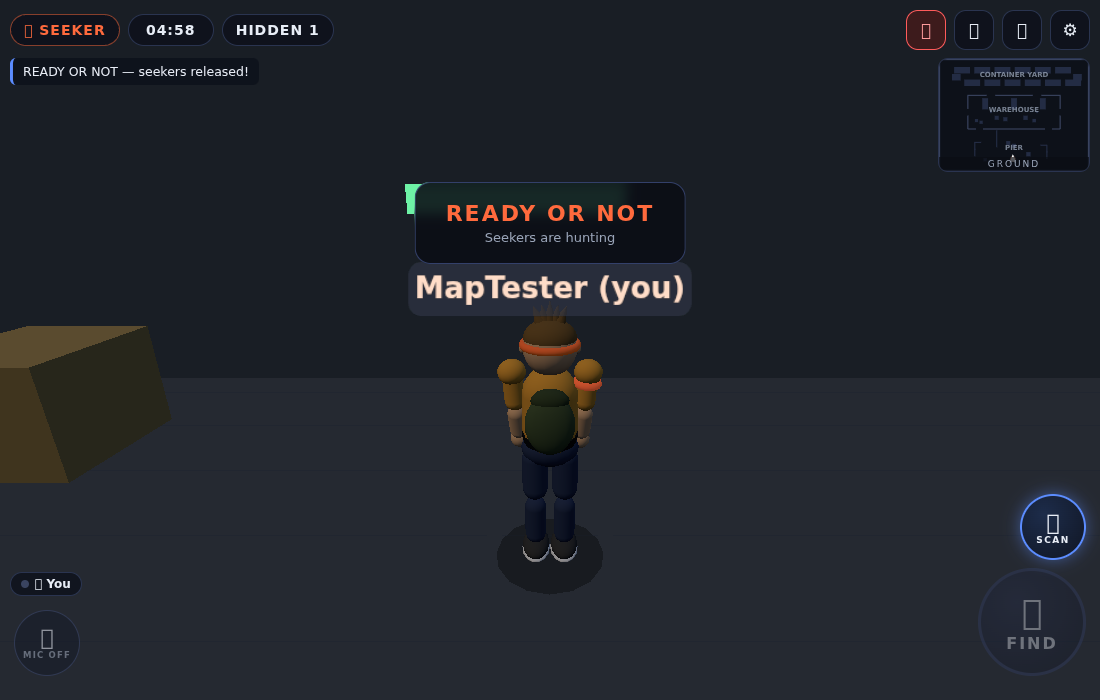
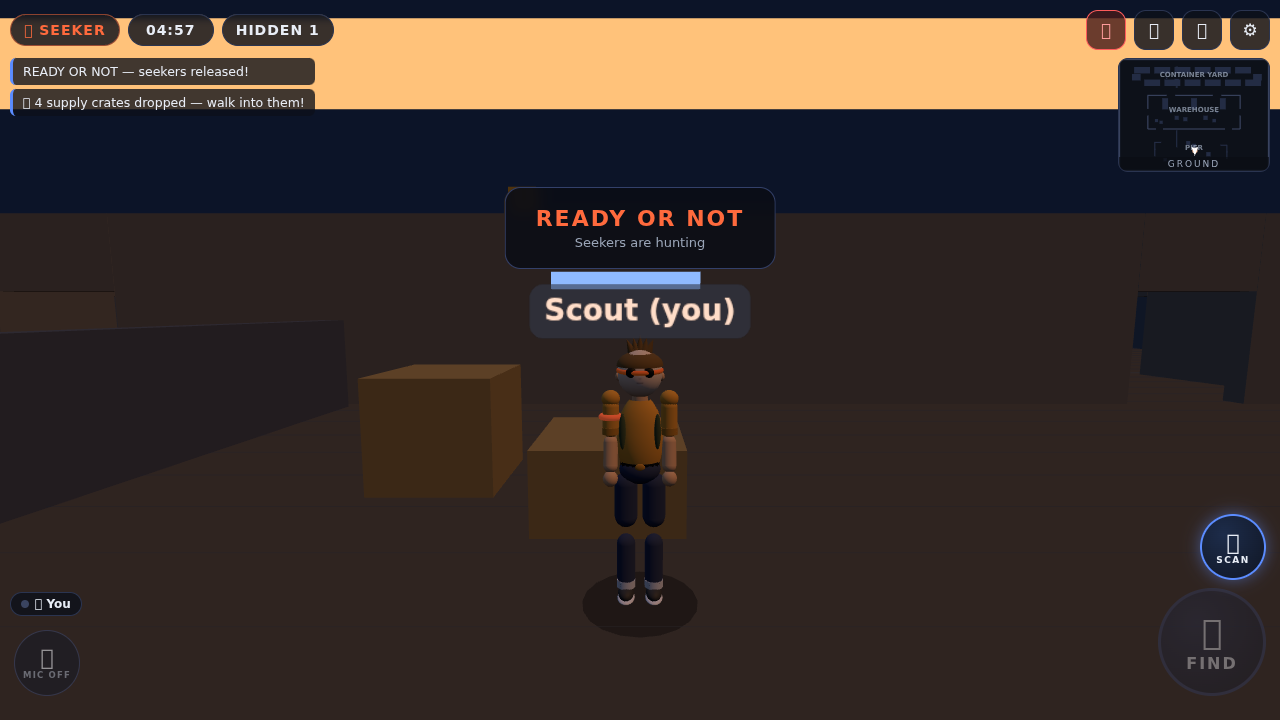
docs: README (crates, map identities, faces, changelog) + map screenshots
Adds tools/map-screenshots.mjs (one in-world shot per map) and fresh
screenshots for the three map identities and the new characters.

diff --git a/hide-and-seek/README.md b/hide-and-seek/README.md
@@ -9,9 +9,9 @@ checks), and a proper round loop (hide → hunt → catch → results).
 **100% browser-based** — nothing to install for players. Phones and desktops
 play together.
 
-| Hider hiding | Seeker FIND! | Results | Characters | The Old Docks |
+| Hider hiding | Seeker FIND! | Characters | The Old Docks | Mall of Shadows |
 |---|---|---|---|---|
-| ![](docs/screenshots/hider-prep.png) | ![](docs/screenshots/seeker-find.png) | ![](docs/screenshots/results.png) | ![](docs/screenshots/avatars-lineup.png) | ![](docs/screenshots/map-docks.png) |
+| ![](docs/screenshots/hider-prep.png) | ![](docs/screenshots/seeker-find.png) | ![](docs/screenshots/avatars-lineup.png) | ![](docs/screenshots/map-docks.png) | ![](docs/screenshots/map-mall.png) |
 
 ---
 
@@ -94,31 +94,54 @@ the lobby). All three are pure data in [`shared/map.js`](shared/map.js)
 *every* map).
 
 - **Blackwood Research Facility** (`facility`) — the original three-level
-  indoor maze: reception atrium, laboratory, server room, security, offices +
-  meeting room, storage, warehouse, **two secret vents**, a **basement**
-  (Archives with a secret ladder back up) and a **rooftop** (exterior service
-  stairs, AC plant, water tanks, maintenance shed). **210 hiding nooks.**
-- **The Old Docks** (`docks`) — a single-floor industrial yard: a **container
-  yard** (tall shipping containers + diagonal alleys), a central **warehouse**
-  (four open bays, rack aisles, forklift, barrels), and a **pier** (sheds,
-  crate stacks, barrel clusters). Rust/teal palette, open and windy.
-  **81 hiding nooks.**
-- **Mall of Shadows** (`mall`) — a single-floor abandoned arcade: perimeter
-  **shops** (display racks), a central **atrium** (fountain, planters), a
-  **food court** (table clusters), a neon **arcade row**, and a raised **DJ
-  stage** (tall booth, reached by walkable steps). **64 hiding nooks.**
+  indoor maze, **cold blue-white lighting**: reception atrium, laboratory,
+  server room, security, offices + meeting room, storage, warehouse,
+  **two secret vents**, a **basement** (Archives with a secret ladder back
+  up) and a **rooftop** (exterior service stairs, AC plant, water tanks,
+  maintenance shed). **209 hiding nooks.**
+- **The Old Docks** (`docks`) — a single-floor industrial yard under **warm
+  amber sodium lamps on a night sky**: a **container yard** (four-colour
+  containers + a yellow gantry-crane landmark), a central **warehouse**
+  (four open bays, rack aisles, forklift) and a **pier** (sheds, crates,
+  barrels). **89 hiding nooks.**
+- **Mall of Shadows** (`mall`) — a single-floor abandoned arcade bathed in
+  **neon magenta + cyan**: perimeter **shops** with lit shopfronts, a central
+  **atrium** (fountain, planters), a **food court**, a multicolour **arcade
+  row**, and a raised **DJ stage**. **64 hiding nooks.**
 
+Each map carries its own **scene identity** (sky, fog, key/fill lighting) so
+the three maps feel like three different places, not one room repainted.
 Every map: glowing **signage** + minimap labels (decorative — never block
 movement or line of sight); tall props (≥1.3 m) block line of sight, low
 props block movement only; **no hide spot lands within 7 m of a seeker spawn**
-(fairness rule, config `hideSpotMinSeekerDistance`).
+(fairness rule, config `hideSpotMinSeekerDistance`), and `verify:map` now
+also proves **every walkable cell has floor under it** (this caught a real
+hole in the facility's north atrium where players could fall out of the world
+and practice bots "hid" standing in mid-air).
+
+### 📦 Supply crates (server-authoritative loot)
+
+Every hunt drops **4 crates** at random validated spots:
+- **⚡ Boost crate** (gold) — walk into it: +40 % move speed for 10 s. The
+  anti-cheat speed cap is raised *server-side* for the same window, so it's a
+  genuine advantage, not a client trick.
+- **🕶 Cloak crate** (cyan) — **hidden hiders only**: for 10 s the hider is
+  *invisible to enemies and uncatchable* (the server omits them from enemy
+  snapshots and rejects catches with `CLOAKED`). Teammates can still see them.
+
+Crates appear in the world as glowing spinning crates; pickup is a
+server-checked radius check; effects show as a HUD countdown chip plus a
+glow on the avatar (gold boost / cyan cloak).
 
 ## 🎭 Characters & feel
 
-Every player gets a **Free Fire-style stylized character**: a low-poly
-humanoid with a per-player *deterministic* look (skin tone, hair style +
-colour, hat, tee/hoodie/jacket, pants, boots, backpack, glasses) — seeded
-from the player id so **every client renders the same player identically**.
+Every player gets a **Free Fire-style stylized character**: a smooth
+low-poly humanoid (no more Minecraft cubes) with a per-player *deterministic*
+look — **painted face** (eyes, brows, nose, mouth on a canvas texture),
+skin tone, hair style + colour, hat, tee/hoodie/jacket (zipper, collar,
+hood, pocket, cuffs, hem), pants, boots, backpack, glasses — seeded from the
+player id so **every client renders the same player identically**. Materials
+use PBR-style shading (per-surface roughness) under each map's lighting.
 Team cues are built in: green armband for hiders, orange armband + goggles
 for seekers.
 
@@ -217,7 +240,7 @@ reveal radius, movement speeds, voice, tick rates, anti-cheat tolerances…).
 ## 🧪 Testing
 
 ```bash
-npm test            # 174 tests: unit (movement math, camera look convention,
+npm test            # 184 tests: unit (movement math, camera look convention,
                     #   kick permissions, voice state, phase machine, remote
                     #   interpolation, map) + full acceptance scenario (spec §38)
 npm run verify:map  # map connectivity + spawns + hide spots for EVERY map
@@ -278,6 +301,29 @@ config) is engine-agnostic and maps 1:1 to a Unity/Fusion port if you later
 want native apps. See [docs/ARCHITECTURE.md](docs/ARCHITECTURE.md).
 
 ## 📜 Changelog
+
+### 2026-08-22 (3) — floor-hole fix, map identities, painted faces, supply crates
+- **Fixed a real floor hole (found via playtest + new verifier):** the
+  facility's north atrium strip (z 25..31) had no floor slab — players could
+  fall out of the world and practice bots "hid" standing in mid-air (23 hide
+  spots there). `verify:map` now proves **every walkable cell has floor under
+  it** and `computeHideSpots` refuses spots without support, so this class of
+  bug is structurally prevented.
+- **Each map is now its own "world":** per-map sky/fog/lighting (facility =
+  cold blue-white, docks = amber sodium night, mall = neon magenta/cyan),
+  docks gained a yellow gantry crane + four-colour containers, the mall
+  gained lit neon shopfronts + multicolour arcade row.
+- **Characters got painted faces** (canvas-textured eyes/brows/nose/mouth,
+  high-contrast so they read at play distance) + PBR-style materials
+  (per-surface roughness). Fixed the beanie band covering the face like a
+  ninja mask; shortened the jacket zipper.
+- **Supply crates (Free Fire-style loot, server-authoritative):** every hunt
+  drops 4 crates — ⚡ **boost** (+40 % speed, 10 s, server raises the
+  anti-cheat cap to match) and 🕶 **cloak** (hiders only: invisible to
+  enemies + uncatchable, 10 s; `CLOAKED` catch rejection, snapshot
+  filtering). Glowing crates in-world, HUD countdown chip, avatar glow.
+- **Tests:** 174 → **184** (10 new item tests: spawn/pickup/boost-cap/cloak
+  catch + visibility/DTO).
 
 ### 2026-08-22 (2) — three maps, host map picker, proven audio, 100-agent panel
 - **Two new maps + a host map picker.** The host now chooses the map when
